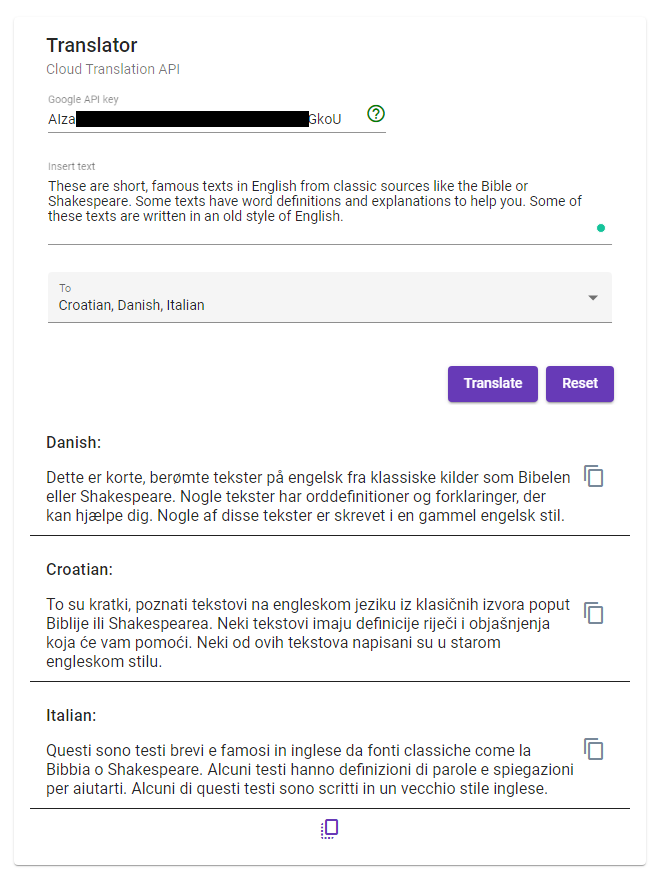
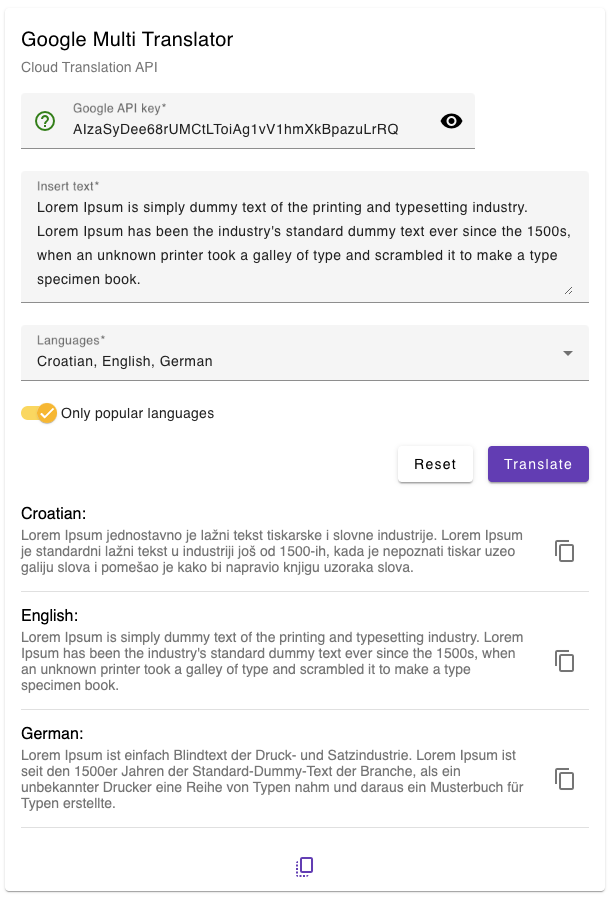
Layout and rename translate prop

diff --git a/ngx-google-translate-ui/projects/ngx-google-translate-ui/src/lib/components/container/ngx-google-translate-ui.component.ts b/ngx-google-translate-ui/projects/ngx-google-translate-ui/src/lib/components/container/ngx-google-translate-ui.component.ts
@@ -8,20 +8,17 @@ import {
 import { MAT_DIALOG_DATA } from '@angular/material/dialog'
 import { forkJoin, map, Observable, of, Subject, switchMap } from 'rxjs'
 import { LANGS } from '../../meta'
-import {
-	IGoogleTranslation,
-	INgxGoogleTranslateUiDialogData
-} from '../../models'
+import { INgxGoogleTranslateUiDialogData } from '../../models'
 import { GoogleTranslationService } from '../../services/google-translation.service'
 import { NgxGoogleTranslateUiFormService } from '../form'
 
 export interface ITranslationResult {
 	language: string
-	translate: string
+	translation: string
 }
 
 @Component({
-	selector: 'lib-ngx-google-translate-ui',
+	selector: 'ngx-google-translate-ui',
 	templateUrl: './ngx-google-translate-ui.component.html',
 	styleUrls: ['./ngx-google-translate-ui.component.scss'],
 	providers: [NgxGoogleTranslateUiFormService],
@@ -86,7 +83,7 @@ export class NgxGoogleTranslateUiComponent implements OnInit {
 					map(result => {
 						return {
 							language: LANGS[targetLang.toLowerCase()],
-							translate: result.translations?.[0]?.translatedText ?? ''
+							translation: result.translations?.[0]?.translatedText ?? ''
 						}
 					})
 				)

diff --git a/ngx-google-translate-ui/projects/ngx-google-translate-ui/src/lib/components/presentation/translation-results/translation-results.component.html b/ngx-google-translate-ui/projects/ngx-google-translate-ui/src/lib/components/presentation/translation-results/translation-results.component.html
@@ -1,11 +1,12 @@
-<div class="translations" *ngFor="let translation of translations">
-	<span class="translations__language">{{ translation.language }}:</span>
+<div class="translations" *ngFor="let translation of translationResult">
+	<span>{{ translation.language }}:</span>
+
 	<div class="translations__result">
-		<span>{{ translation.translate }}</span>
+		<span>{{ translation.translation }}</span>
 
 		<button
 			mat-icon-button
-			[cdkCopyToClipboard]="translation.translate"
+			[cdkCopyToClipboard]="translation.translation"
 			(click)="openSnackBar(translation.language)"
 		>
 			<mat-icon matListIcon matTooltip="Copy translation"
@@ -13,6 +14,8 @@
 			>
 		</button>
 	</div>
+
+	<mat-divider class="breaker"></mat-divider>
 </div>
 
 <div class="copy-all">

diff --git a/ngx-google-translate-ui/projects/ngx-google-translate-ui/src/lib/components/presentation/translation-results/translation-results.component.ts b/ngx-google-translate-ui/projects/ngx-google-translate-ui/src/lib/components/presentation/translation-results/translation-results.component.ts
@@ -10,7 +10,7 @@ import { ITranslationResult } from '../../container/ngx-google-translate-ui.comp
 })
 export class TranslationResultsComponent {
 	@Input()
-	translations: ITranslationResult[] = []
+	translationResult: ITranslationResult[] = []
 
 	constructor(private snackBar: MatSnackBar) {}
 
@@ -28,10 +28,7 @@ export class TranslationResultsComponent {
 		)
 	}
 
-	/**
-	 * @returns string - JSON stringified fetched translations.
-	 */
 	onCopyAll(): string {
-		return JSON.stringify(this.translations)
+		return JSON.stringify(this.translationResult)
 	}
 }

diff --git a/ngx-google-translate-ui/projects/ngx-google-translate-ui/src/lib/components/presentation/translation-results/translation-results.component.scss b/ngx-google-translate-ui/projects/ngx-google-translate-ui/src/lib/components/presentation/translation-results/translation-results.component.scss
@@ -5,22 +5,27 @@
 	font-family: Roboto, sans-serif;
 
 	.translations {
+		display: flex;
+		flex-flow: column nowrap;
+		row-gap: 4px;
 		padding: 0 16px;
-
-		&__language {
-			padding-bottom: 8px;
-		}
 
 		&__result {
 			display: flex;
 			justify-content: space-between;
 			align-items: center;
+			column-gap: 10px;
 			color: rgba(0, 0, 0, 0.54);
 			font-size: 14px;
+			text-align: left;
 		}
 	}
 
 	.copy-all {
 		align-self: center;
+	}
+
+	.breaker {
+		margin-top: 12px;
 	}
 }

diff --git a/ngx-google-translate-ui/projects/demo/src/app/app.component.html b/ngx-google-translate-ui/projects/demo/src/app/app.component.html
@@ -1,4 +1,4 @@
-<lib-ngx-google-translate-ui></lib-ngx-google-translate-ui>
+<ngx-google-translate-ui></ngx-google-translate-ui>
 
 <button mat-raised-button color="accent" (click)="openTranslationDialog()">
 	Open as a dialog

diff --git a/ngx-google-translate-ui/projects/ngx-google-translate-ui/src/lib/components/container/ngx-google-translate-ui.component.html b/ngx-google-translate-ui/projects/ngx-google-translate-ui/src/lib/components/container/ngx-google-translate-ui.component.html
@@ -33,6 +33,6 @@
 
 	<ngx-google-translation-results
 		*ngIf="translations$ | async as translations"
-		[translations]="translations"
+		[translationResult]="translations"
 	></ngx-google-translation-results>
 </mat-card>

diff --git a/ngx-google-translate-ui/projects/ngx-google-translate-ui/src/lib/components/presentation/translation-fields/translation-fields.component.html b/ngx-google-translate-ui/projects/ngx-google-translate-ui/src/lib/components/presentation/translation-fields/translation-fields.component.html
@@ -27,7 +27,7 @@
 </mat-form-field>
 
 <mat-form-field class="full-width" appearance="fill">
-	<mat-label>Translation text</mat-label>
+	<mat-label>Insert text</mat-label>
 	<textarea
 		matInput
 		class="textarea"

diff --git a/ngx-google-translate-ui/projects/demo/src/index.html b/ngx-google-translate-ui/projects/demo/src/index.html
@@ -1,7 +1,7 @@
 <!DOCTYPE html>
 <html lang="en">
 	<head>
-		<meta charset="utf-8" />
+		<meta charset="UTF-8" />
 		<title>NGX Google Translator</title>
 		<base href="/" />
 
